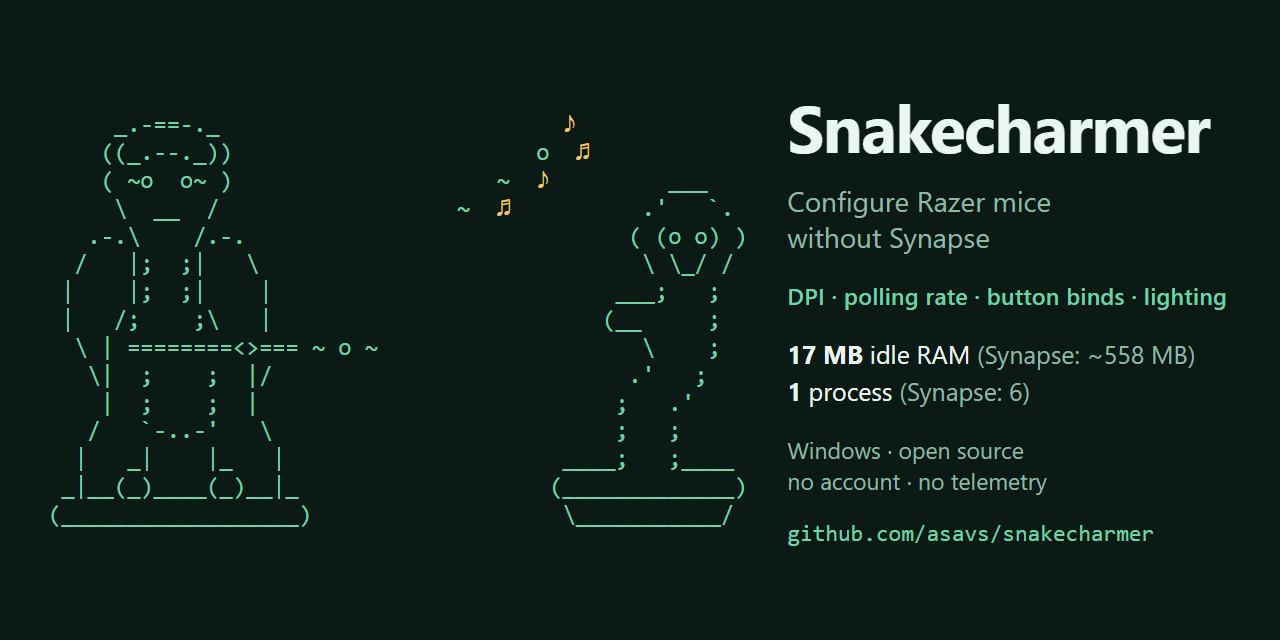
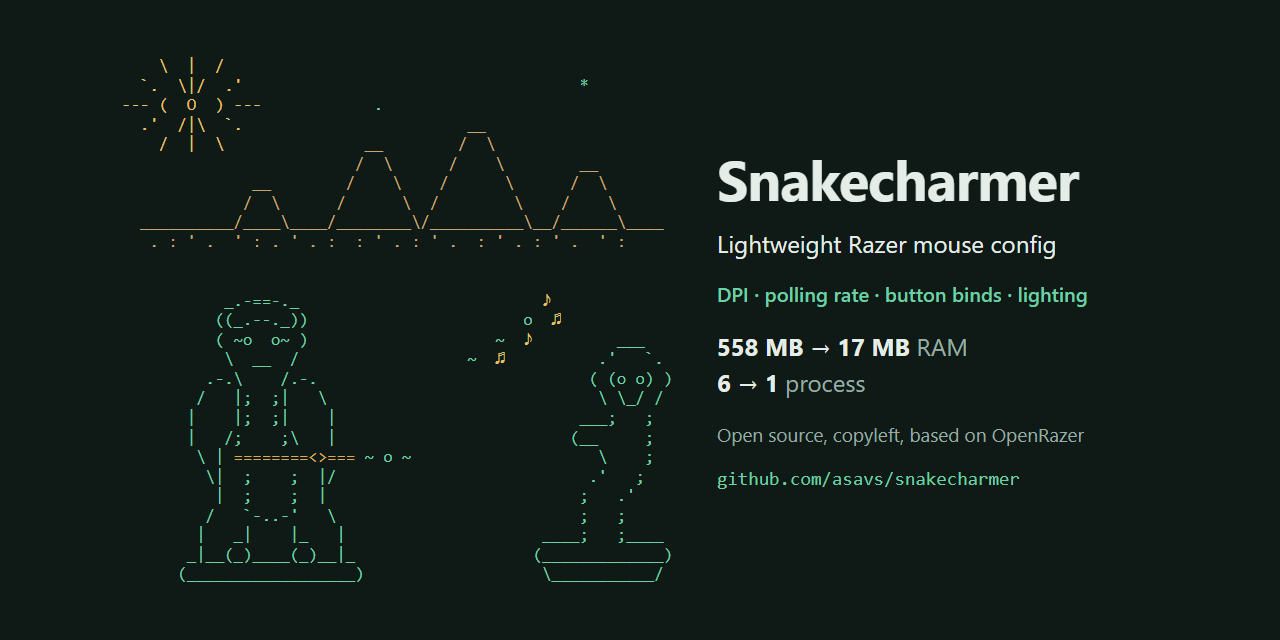
Use the full README scene on the social card and add a Sponsor link (#32)
The card now shows the whole scene, sun and pyramids included, colored the
same way as the site; tools/social-card.py reuses build-site.py's art
instead of its own copy. Its text is shorter and names Synapse less:
"Lightweight Razer mouse config", the four settings, 558 MB -> 17 MB RAM and
6 -> 1 process, and the license line from the site.

.github/FUNDING.yml turns on the Sponsor button for this repo, and the site
footer links to the Sponsors page.

diff --git a/site/index.html b/site/index.html
@@ -252,7 +252,8 @@
     <a href="https://github.com/openrazer/openrazer">OpenRazer</a>. Thanks to the OpenRazer
     maintainers. Not affiliated with Razer.</p>
   <p><a href="{{REPO}}">GitHub</a> · <a href="{{REPO}}/releases">Releases</a> ·
-    <a href="{{REPO}}/issues">Issues</a> · <a href="{{REPO}}/blob/master/README.md">Docs</a></p>
+    <a href="{{REPO}}/issues">Issues</a> · <a href="{{REPO}}/blob/master/README.md">Docs</a> ·
+    <a href="https://github.com/sponsors/asavs">Sponsor</a></p>
 </footer>
 
 <script>

diff --git a/tools/social-card.py b/tools/social-card.py
@@ -1,73 +1,62 @@
 """Build the social preview card (1280x640) as HTML from the README art.
 
-    python tools/social-card.py README.md card.html
+    python tools/social-card.py card.html
 
-Render it to `site/card.png`, which is both the repo's social preview (uploaded by hand
-under Settings -> Social preview) and the site's og:image:
+The art is the full README scene, colored the same way as the site (see
+tools/build-site.py). Render it to `site/card.png`, which is both the repo's social
+preview (uploaded by hand under Settings -> Social preview) and the site's og:image:
 
     msedge --headless --disable-gpu --hide-scrollbars --window-size=1280,640
            --screenshot=site/card.png file:///<absolute path>/card.html
 """
-import html
+import importlib.util
 import sys
 from pathlib import Path
 
-readme, out = Path(sys.argv[1]), Path(sys.argv[2])
-lines = readme.read_text(encoding="utf-8").splitlines()
-start = next(i for i, l in enumerate(lines) if "_.-==-._" in l)
-end = next(i for i, l in enumerate(lines) if "(__________________)" in l)
-art = [l.rstrip() for l in lines[start : end + 1]]
-indent = min(len(l) - len(l.lstrip()) for l in art if l.strip())
-art = [l[indent:] for l in art]
+spec = importlib.util.spec_from_file_location(
+    "build_site", Path(__file__).resolve().parent / "build-site.py"
+)
+build_site = importlib.util.module_from_spec(spec)
+spec.loader.exec_module(build_site)
 
-def paint(line: str) -> str:
-    s = html.escape(line)
-    for note in ("♪", "♫"):
-        s = s.replace(note, f'<span class="note">{note}</span>')
-    return s
-
-art_html = "\n".join(paint(l) for l in art)
+out = Path(sys.argv[1])
+art_html, _caption = build_site.readme_art()
 
 out.write_text(f"""<!doctype html>
 <html><head><meta charset="utf-8">
 <style>
   :root {{
-    --bg: #0c1a15; --ink: #eaf7f0; --muted: #8fb8a6;
-    --art: #6fd3aa; --note: #f0c768;
+    --bg: #0f1a16; --ink: #e4ede8; --muted: #98ada3; --art: #6fcfa6;
+    --sun: #e6c16a; --sand: #c6a674; --flute: #d8aa55;
   }}
   * {{ margin: 0; padding: 0; box-sizing: border-box; }}
   html, body {{ width: 1280px; height: 640px; overflow: hidden; }}
   body {{
-    background: var(--bg);
-    color: var(--ink); font-family: "Segoe UI", system-ui, sans-serif;
-    display: flex; align-items: center; gap: 40px; padding: 0 48px;
+    background: var(--bg); color: var(--ink); font-family: "Segoe UI", system-ui, sans-serif;
+    display: flex; align-items: center; gap: 44px; padding: 0 56px;
   }}
-  pre {{
-    font-family: Consolas, "Cascadia Mono", monospace; font-size: 24px;
-    line-height: 1.16; color: var(--art); flex: none;
-  }}
-  .note {{ color: var(--note); }}
-  .text {{ display: flex; flex-direction: column; gap: 24px; }}
-  h1 {{ font-size: 66px; font-weight: 700; letter-spacing: -1.5px; line-height: 1; }}
-  .tag {{ font-size: 28px; color: var(--muted); line-height: 1.3; }}
-  .tag b {{ color: var(--ink); font-weight: 600; }}
-  .feat {{ font-size: 23px; white-space: nowrap; color: var(--art); font-weight: 600; letter-spacing: 0.3px; }}
-  .facts {{ font-size: 25px; line-height: 1.5; white-space: nowrap; }}
-  .facts b {{ font-weight: 700; }}
+  pre {{ font: 17px/1.15 Consolas, "Cascadia Mono", monospace; color: var(--art); flex: none; }}
+  .sun, .note {{ color: var(--sun); }}
+  .sand {{ color: var(--sand); }}
+  .flute {{ color: var(--flute); }}
+  .text {{ display: flex; flex-direction: column; gap: 21px; }}
+  h1 {{ font-size: 56px; font-weight: 700; letter-spacing: -1px; line-height: 1; }}
+  .tag {{ font-size: 24px; }}
+  .feat {{ font-size: 20px; color: var(--art); font-weight: 600; }}
+  .facts {{ font-size: 24px; line-height: 1.5; }}
   .facts span {{ color: var(--muted); }}
-  .trust {{ font-size: 23px; line-height: 1.35; color: var(--muted); }}
-  .url {{ font-family: Consolas, monospace; font-size: 23px; color: var(--art); }}
+  .trust {{ font-size: 19px; color: var(--muted); }}
+  .url {{ font: 19px Consolas, monospace; color: var(--art); }}
 </style></head>
 <body>
 <pre>{art_html}</pre>
 <div class="text">
   <h1>Snakecharmer</h1>
-  <div class="tag">Configure Razer mice<br>without Synapse</div>
+  <div class="tag">Lightweight Razer mouse config</div>
   <div class="feat">DPI &middot; polling rate &middot; button binds &middot; lighting</div>
-  <div class="facts"><b>17 MB</b> idle RAM <span>(Synapse: ~558 MB)</span><br><b>1</b> process <span>(Synapse: 6)</span></div>
-  <div class="trust">Windows &middot; open source<br>no account &middot; no telemetry</div>
+  <div class="facts"><b>558 MB &rarr; 17 MB</b> <span>RAM</span><br><b>6 &rarr; 1</b> <span>process</span></div>
+  <div class="trust">Open source, copyleft, based on OpenRazer</div>
   <div class="url">github.com/asavs/snakecharmer</div>
 </div>
 </body></html>
 """, encoding="utf-8")
-print(f"{len(art)} art lines, {max(map(len, art))} cols")
